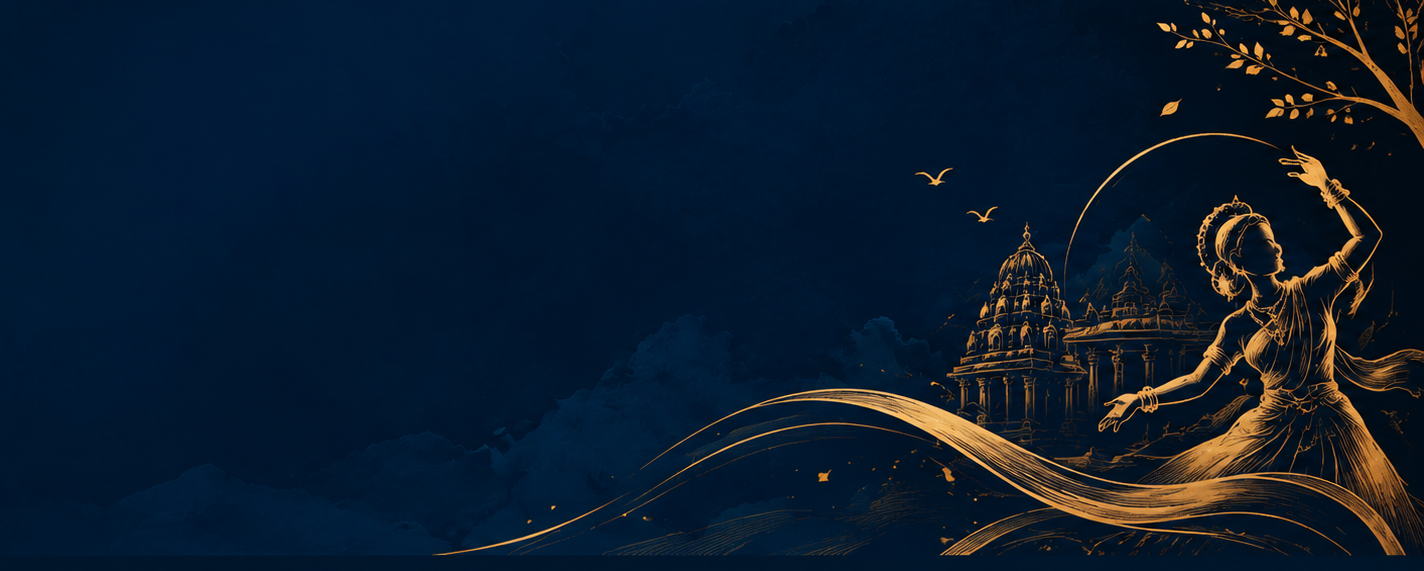
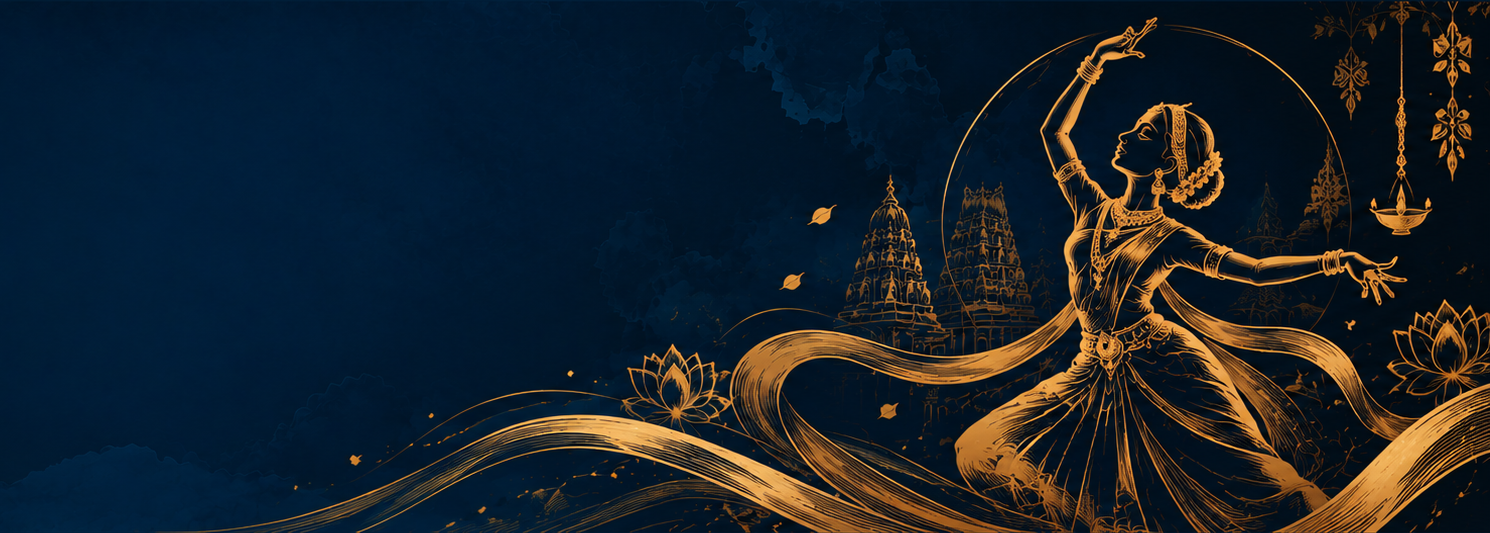
img added

diff --git a/frontend/kshitija/src/EventDetails/StreetPlay.jsx b/frontend/kshitija/src/EventDetails/StreetPlay.jsx
@@ -1,4 +1,4 @@
-import streetPlay from "./assets/streetPlay-bg.png"
+import streetPlay from "../assets/streetPlay-bg.png"
 const event = {
   name: "YUGANTARA",
   type: "STREET PLAY",
@@ -47,28 +47,44 @@ function StreetPlay() {
     <section className="min-h-screen bg-[#020b14] px-6 py-24 text-white sm:px-10 lg:px-20">
       {/* HEADER */}
       <div className="mx-auto max-w-6xl">
-        <div className="mb-5 flex items-center gap-4">
-          <span className="text-sm tracking-[0.25em] text-[#e7b65a]">
-            EVENT DETAILS
-          </span>
+        {/* ================= HERO / EVENT BANNER ================= */}
+        <div className="relative overflow-hidden rounded-2xl border border-white/10">
+          {/* Banner Image */}
+          <img
+            src={streetPlay}
+            alt=""
+            className="absolute inset-0 h-full w-full object-cover"
+          />
 
-          <span className="h-px w-16 bg-[#e7b65a]/60" />
+          {/* Subtle Overlay */}
+          <div className="absolute inset-0 bg-[#020b14]/20" />
+
+          {/* Hero Content */}
+          <div className="relative z-10 min-h-[420px] px-8 py-12 sm:px-12 lg:px-16">
+            {/* Small Heading */}
+            <div className="mb-5 flex items-center gap-4">
+              <span className="text-sm tracking-[0.25em] text-[#e7b65a]">
+                EVENT DETAILS
+              </span>
+
+              <span className="h-px w-16 bg-[#e7b65a]/60" />
+            </div>
+
+            {/* Event Name */}
+            <h1 className="font-serif text-3xl text-[#f2c873] sm:text-6xl lg:text-7xl">
+              {event.name}
+            </h1>
+
+            {/* Event Type */}
+            <p className="mt-3 text-sm tracking-[0.35em] text-white/50">
+              {event.type}
+            </p>
+
+            <p className="mt-8 max-w-3xl text-base leading-8 text-white/65 sm:text-lg">
+              {event.description}
+            </p>
+          </div>
         </div>
-
-        <h1 className="font-serif text-3xl text-[#f2c873] sm:text-6xl lg:text-7xl">
-          {event.name}
-        </h1>
-
-        <p className="mt-3 text-sm tracking-[0.35em] text-white/50">
-          {event.type}
-        </p>
-
-        <div className="mt-8 h-px w-full bg-white/10" />
-
-        {/* DESCRIPTION */}
-        <p className="mt-8 max-w-3xl text-base leading-8 text-white/65 sm:text-lg">
-          {event.description}
-        </p>
 
         {/* CONTENT GRID */}
         <div className="mt-16 grid gap-10 lg:grid-cols-2">

diff --git a/frontend/kshitija/src/EventDetails/Dance.jsx b/frontend/kshitija/src/EventDetails/Dance.jsx
@@ -1,3 +1,4 @@
+import danceBg from "../assets/dance-bg.png"
 const event = {
   name: "NARIPARIVARTANAM",
   type: "DANCE",
@@ -46,28 +47,44 @@ function Dance() {
     <section className="min-h-screen bg-[#020b14] px-6 py-24 text-white sm:px-10 lg:px-20">
       {/* HEADER */}
       <div className="mx-auto max-w-6xl">
-        <div className="mb-5 flex items-center gap-4">
-          <span className="text-sm tracking-[0.25em] text-[#e7b65a]">
-            EVENT DETAILS
-          </span>
+        {/* ================= HERO / EVENT BANNER ================= */}
+        <div className="relative overflow-hidden rounded-2xl border border-white/10">
+          {/* Banner Image */}
+          <img
+            src={danceBg}
+            alt=""
+            className="absolute inset-0 h-full w-full object-cover"
+          />
 
-          <span className="h-px w-16 bg-[#e7b65a]/60" />
+          {/* Subtle Overlay */}
+          <div className="absolute inset-0 bg-[#020b14]/20" />
+
+          {/* Hero Content */}
+          <div className="relative z-10 min-h-[420px] px-8 py-12 sm:px-12 lg:px-16">
+            {/* Small Heading */}
+            <div className="mb-5 flex items-center gap-4">
+              <span className="text-sm tracking-[0.25em] text-[#e7b65a]">
+                EVENT DETAILS
+              </span>
+
+              <span className="h-px w-16 bg-[#e7b65a]/60" />
+            </div>
+
+            {/* Event Name */}
+            <h1 className="font-serif text-3xl text-[#f2c873] sm:text-6xl lg:text-7xl">
+              {event.name}
+            </h1>
+
+            {/* Event Type */}
+            <p className="mt-3 text-sm tracking-[0.35em] text-white/50">
+              {event.type}
+            </p>
+
+            <p className="mt-8 max-w-3xl text-base leading-8 text-white/65 sm:text-lg">
+              {event.description}
+            </p>
+          </div>
         </div>
-
-        <h1 className="font-serif text-3xl text-[#f2c873] sm:text-2xl lg:text-7xl">
-          {event.name}
-        </h1>
-
-        <p className="mt-3 text-sm tracking-[0.35em] text-white/50">
-          {event.type}
-        </p>
-
-        <div className="mt-8 h-px w-full bg-white/10" />
-
-        {/* DESCRIPTION */}
-        <p className="mt-8 max-w-3xl text-base leading-8 text-white/65 sm:text-lg">
-          {event.description}
-        </p>
 
         {/* CONTENT GRID */}
         <div className="mt-16 grid gap-10 lg:grid-cols-2">

diff --git a/frontend/kshitija/src/EventDetails/Singing.jsx b/frontend/kshitija/src/EventDetails/Singing.jsx
@@ -1,4 +1,4 @@
-import danceBan from "../assets/dance-bg.png";
+import danceBan from "../assets/singing-bg.png";
 
 const event = {
   name: "BHAVAGEETHE",
